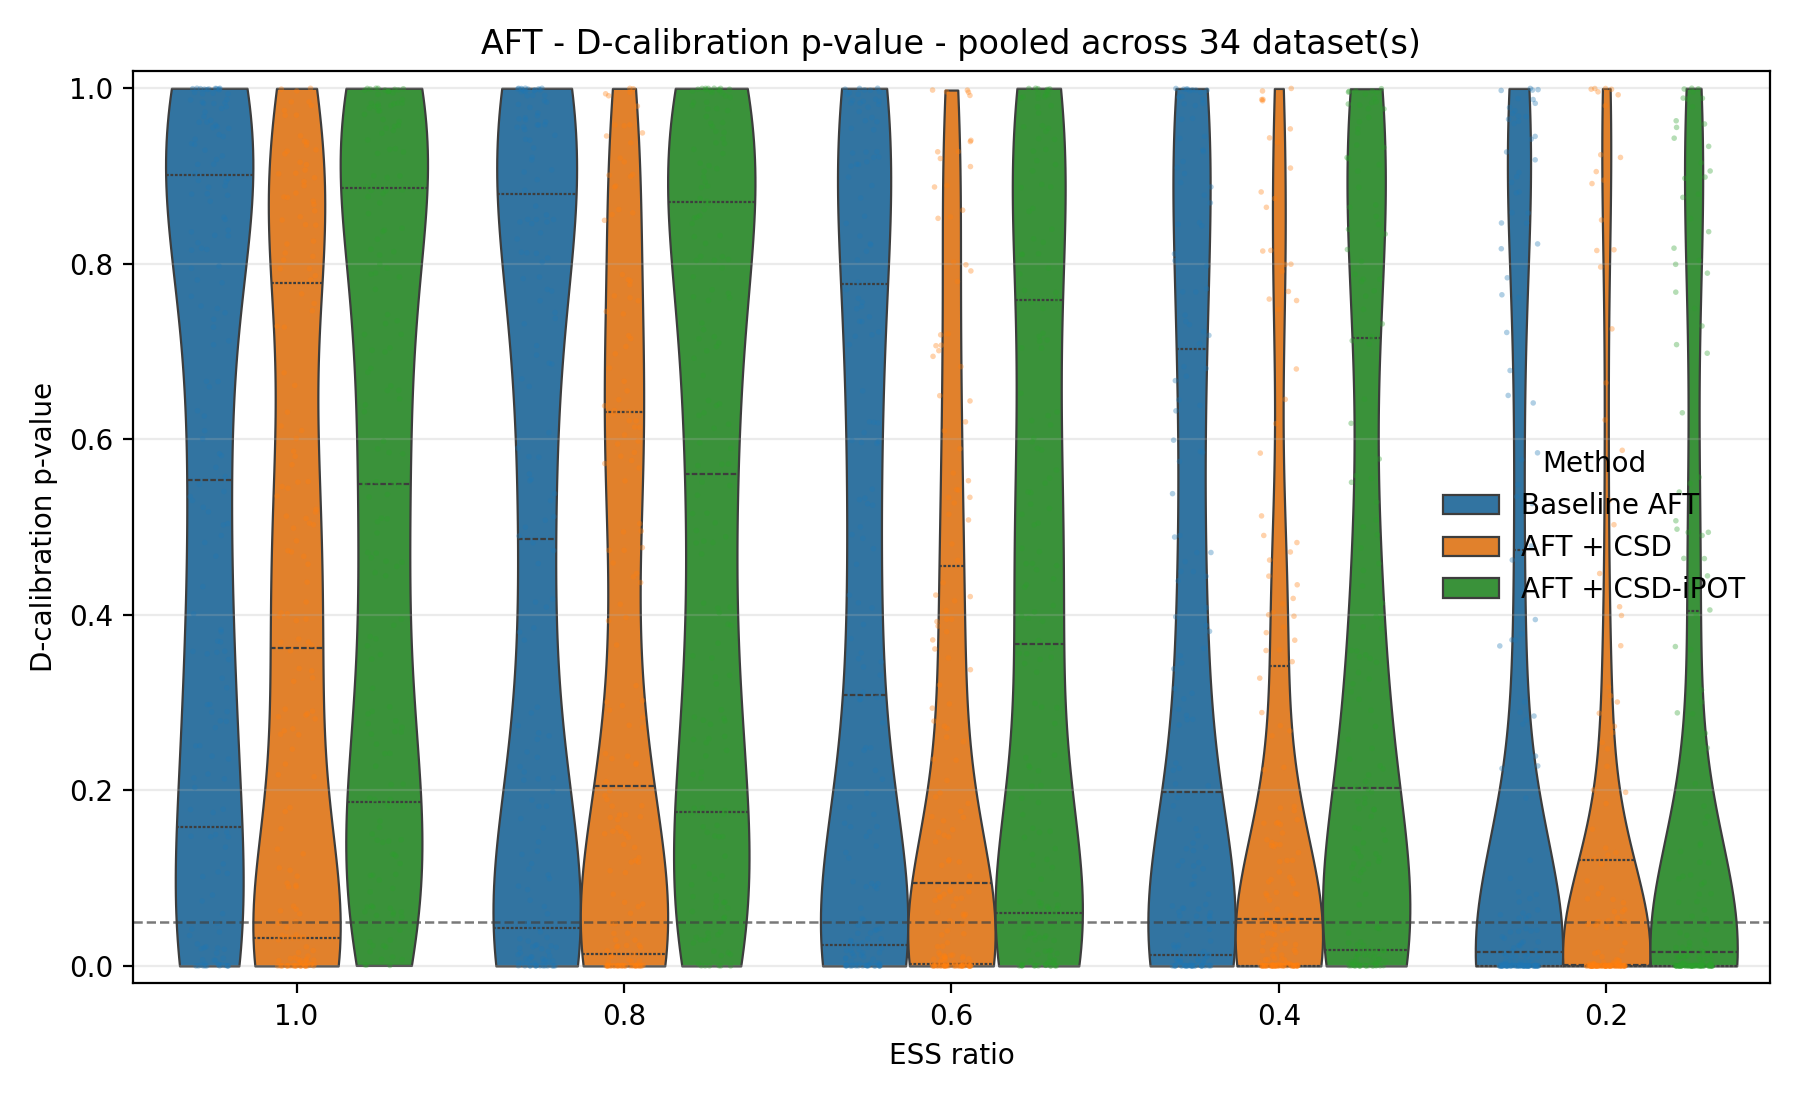
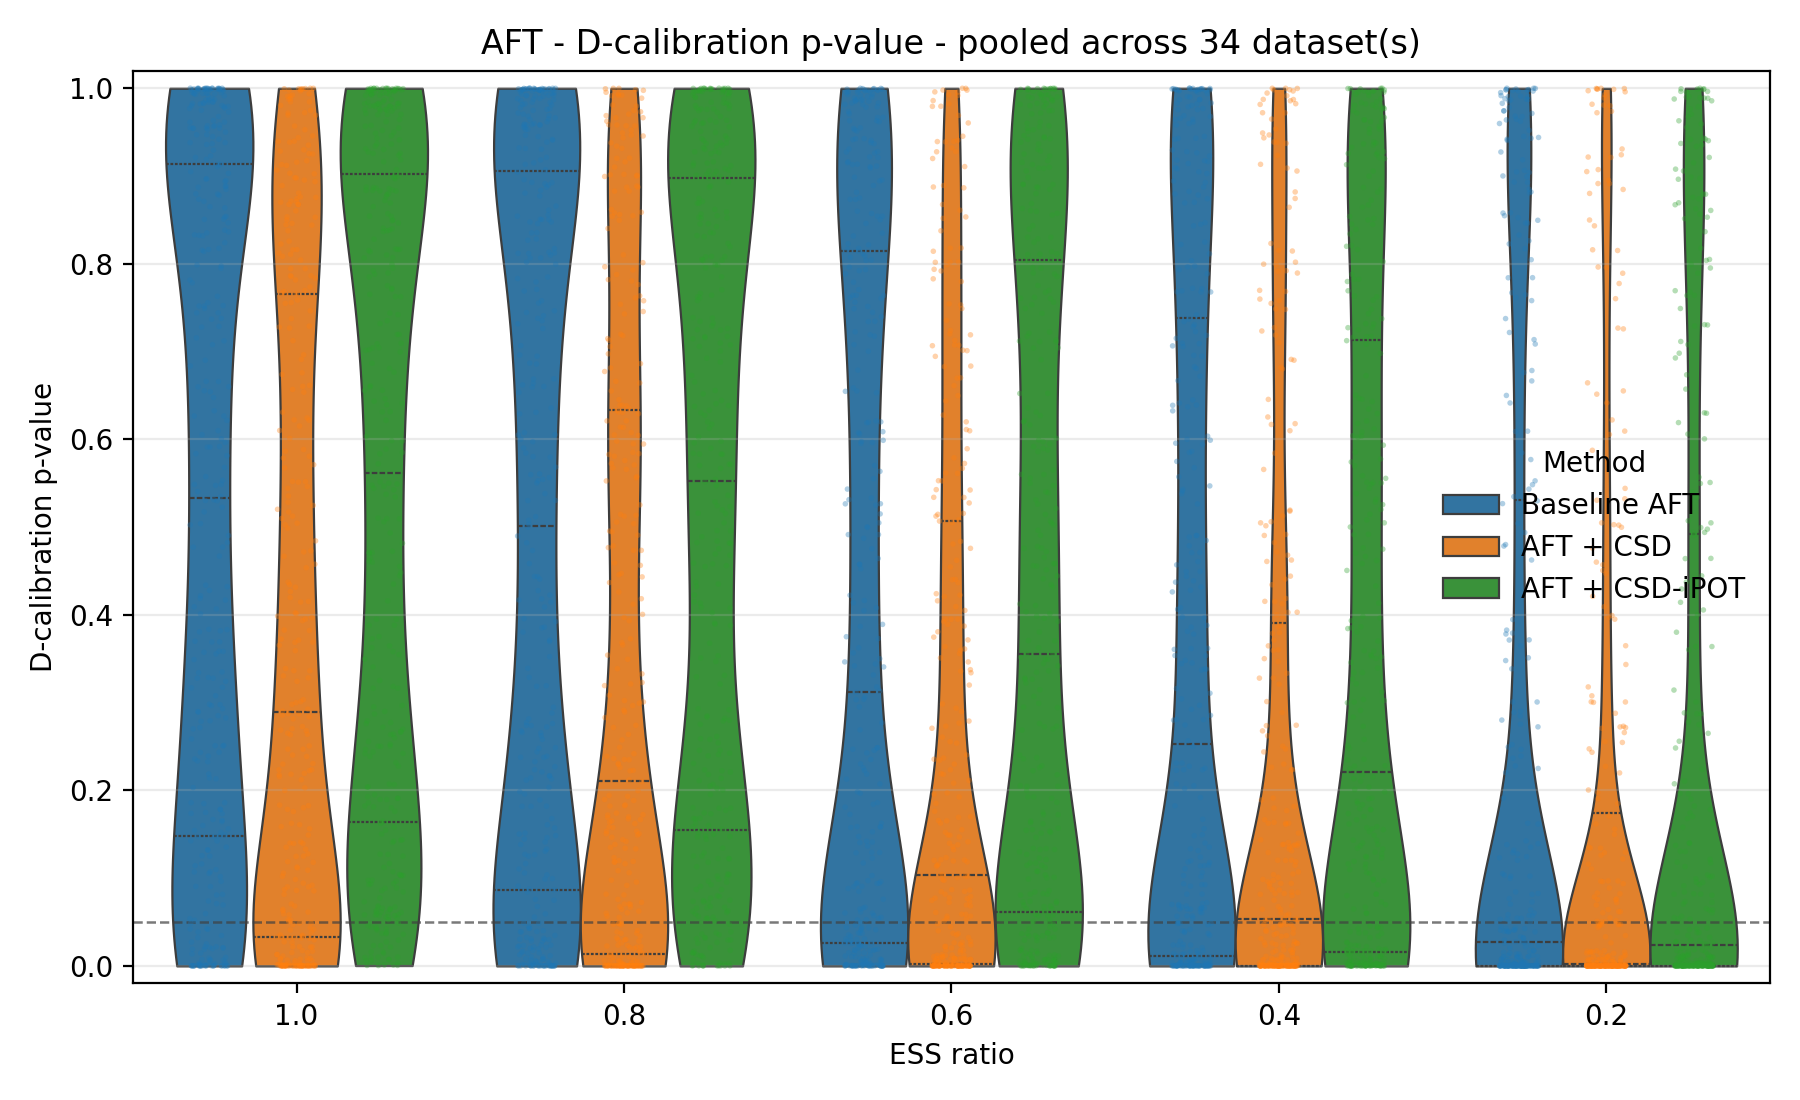
Wors-slab calibration implementation

diff --git a/workflow/scripts/py/single_split_eval.py b/workflow/scripts/py/single_split_eval.py
@@ -5,6 +5,8 @@ import sys
 import numpy as np
 import pandas as pd
 from SurvivalEVAL import QuantileRegEvaluator, SurvivalEvaluator
+from SurvivalEVAL.Evaluations.DistributionCalibration import d_calibration
+import CondCalEvaluation
 
 sys.dont_write_bytecode = True
 SURVIVAL_OUTPUT_DIR = os.path.join("results", "survival_outputs")
@@ -17,6 +19,7 @@ def parse_args():
         default="veteran_split_1_ess_1.0_AFT.npz",
         help="Prediction .npz filename under results/survival_outputs, or a full path.",
     )
+    parser.add_argument("--seed", type=int, default=42)
     parser.add_argument("--output-csv", default=None)
     return parser.parse_args()
 
@@ -33,8 +36,23 @@ def scalar_text(value):
     return str(value.item()) if hasattr(value, "item") else str(value)
 
 
+def d_calibration_compat(pred_probs, event_indicators, num_bins):
+    _, pvalue, dcal_hist = d_calibration(pred_probs, event_indicators, num_bins)
+    return pvalue, dcal_hist
+
+
+def worst_slab_calibration(evaluator, x_test, t_test, e_test, seed):
+    np.random.seed(seed)
+    CondCalEvaluation.d_calibration = d_calibration_compat
+    predict_probs = evaluator.predict_probability_from_curve(t_test)
+    return CondCalEvaluation.wsc_xcal(
+        x_test, e_test, predict_probs, random_state=seed
+    )
+
+
 def main():
     args = parse_args()
+    seed = args.seed
 
     # Load saved model outputs and the event/time arrays used for evaluation.
     input_path = survival_output_path(args.input)
@@ -43,6 +61,7 @@ def main():
     e_test = outputs["e_test"]
     t_train_ref = outputs["t_train_ref"]
     e_train_ref = outputs["e_train_ref"]
+    x_test = outputs["x_test"]
 
     # Baseline AFT outputs are survival curves over time coordinates.
     evl_base = SurvivalEvaluator(
@@ -86,16 +105,25 @@ def main():
                 "method": scalar_text(outputs["baseline_method"]),
                 "Harrell_CI": evl_base.concordance(method="Harrell")[0],
                 "D_CAL_pvalue": evl_base.d_calibration()[0],
+                "WS_cal": worst_slab_calibration(
+                    evl_base, x_test, t_test, e_test, seed
+                ),
             },
             {
                 "method": scalar_text(outputs["csd_method"]),
                 "Harrell_CI": evl_csd.concordance(method="Harrell")[0],
                 "D_CAL_pvalue": evl_csd.d_calibration()[0],
+                "WS_cal": worst_slab_calibration(
+                    evl_csd, x_test, t_test, e_test, seed
+                ),
             },
             {
                 "method": scalar_text(outputs["ipot_method"]),
                 "Harrell_CI": evl_ipot.concordance(method="Harrell")[0],
                 "D_CAL_pvalue": evl_ipot.d_calibration()[0],
+                "WS_cal": worst_slab_calibration(
+                    evl_ipot, x_test, t_test, e_test, seed
+                ),
             },
         ]
     )

diff --git a/workflow/scripts/py/plot_eval_results.py b/workflow/scripts/py/plot_eval_results.py
@@ -45,7 +45,7 @@ def parse_args() -> argparse.Namespace:
         action="append",
         help=(
             "Metric column to plot. Can be repeated. If omitted, plots "
-            "D_CAL_pvalue and WorstSlab_D_CAL when available."
+            "D_CAL_pvalue and WS_cal when available."
         ),
     )
     parser.add_argument(
@@ -144,6 +144,7 @@ def available_metrics(data: pd.DataFrame, requested_metrics: list[str]) -> list[
 def metric_label(metric: str) -> str:
     labels = {
         "D_CAL_pvalue": "D-calibration p-value",
+        "WS_cal": "Worst-slab calibration score",
         "WorstSlab_D_CAL": "Worst-slab D-calibration score",
     }
     return labels.get(metric, metric)
@@ -224,7 +225,7 @@ def plot_model(
 
 def main() -> None:
     args = parse_args()
-    requested_metrics = args.metric or ["D_CAL_pvalue", "WorstSlab_D_CAL"]
+    requested_metrics = args.metric or ["D_CAL_pvalue", "WS_cal"]
     data = read_eval_metrics(
         args.input_dir,
         args.pattern,

diff --git a/workflow/scripts/py/single_split_train.py b/workflow/scripts/py/single_split_train.py
@@ -294,6 +294,7 @@ def main():
         csd_q_preds=q_preds_csd,
         ipot_q_levels=q_levels_ipot,
         ipot_q_preds=q_preds_ipot,
+        x_test=x_test,
         t_test=t_test,
         e_test=e_test,
         t_train_ref=t_train_ref,
